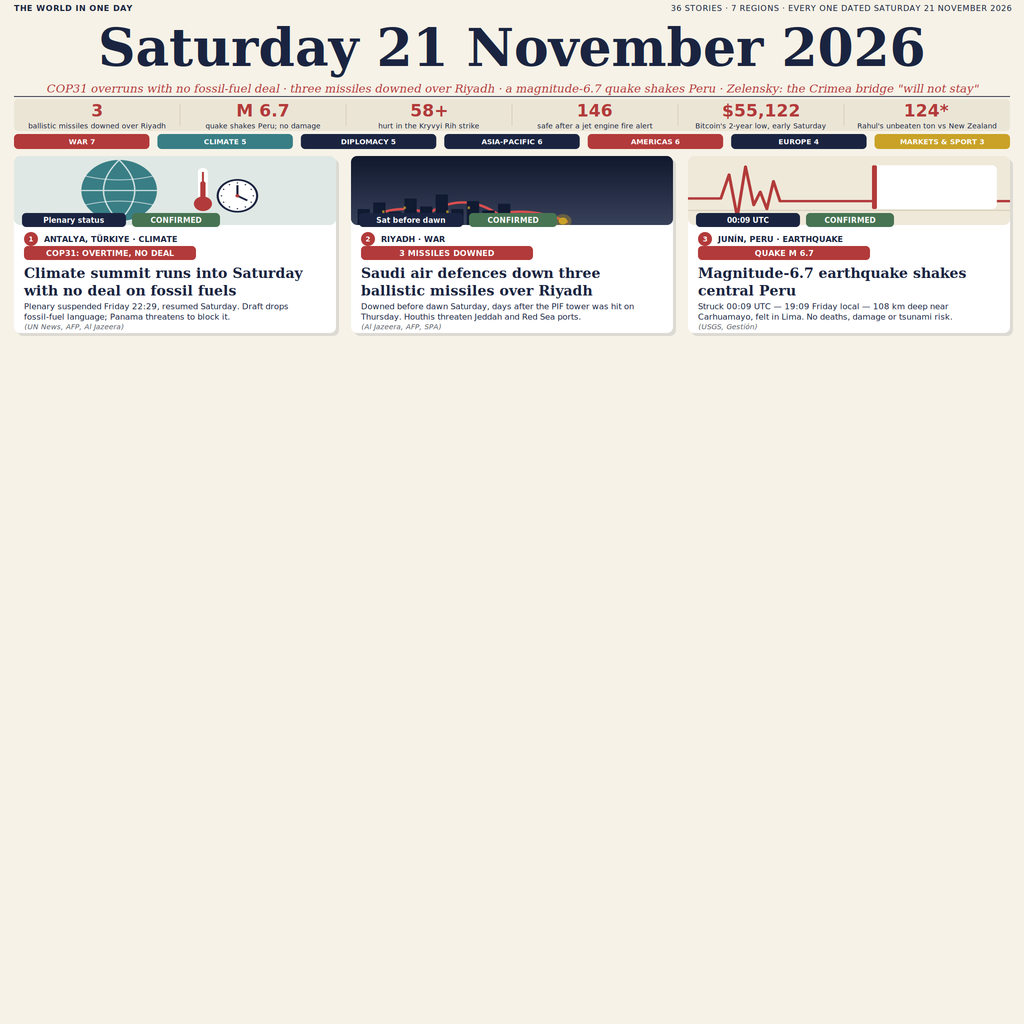
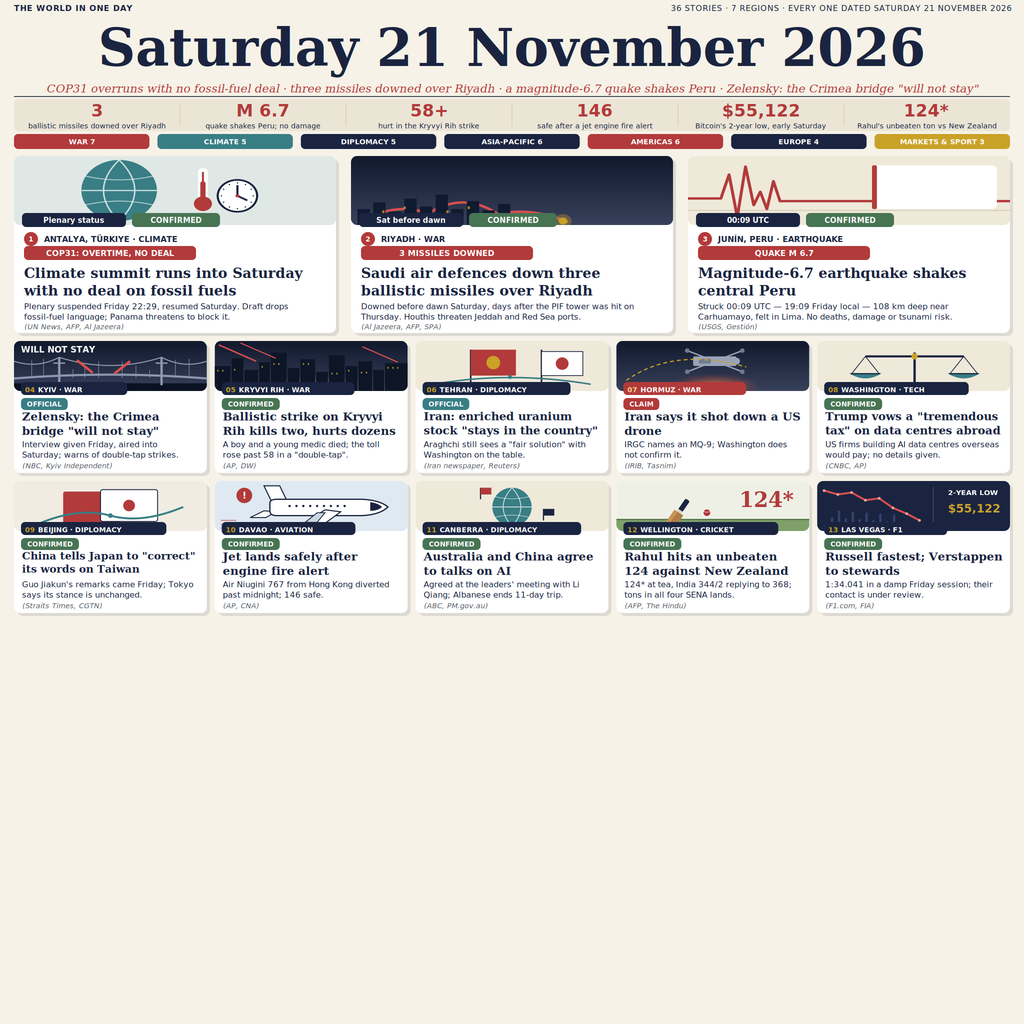
phase 2: ten feature cards with original vector scenes
Five equal columns (x=14..1010, 8px gutters) by two rows at y=341/481,
each 192.8x132 with a 50px scene band, kicker pill, provenance chip,
serif headline, body and sources line.

Scenes: Kyiv skyline, Kerch bridge cut by red slashes, Iran/China flags,
MQ-9 drone over fire glow, scales of justice, overlapping flags, Davao
airliner, Canberra globe, Wellington cricket, Las Vegas chart.

Scene text is registered in page coordinates and emitted after the
scaled group closes, so every label goes through the same measured,
collision-checked block() path as the rest of the page.

Changed region(s): [[0.0, 0.3125, 1.0, 0.5938]]

diff --git a/render.py b/render.py
@@ -1,9 +1,10 @@
 #!/usr/bin/env python3
 """Saturday 21 November 2026 — the day's world news on one deterministic page.
 
-This file is built in PARTS. Phase 1 (this file) implements the layout ENGINE
-and the TOP of the page: masthead, stat band, region pills and three lead cards.
-Later phases append further sections to build() before the single final render.
+This file is built in PARTS. Phase 1 implements the layout ENGINE and the TOP
+of the page: masthead, stat band, region pills and three lead cards. Phase 2
+adds the ten feature cards, each with its own original vector scene. Later
+phases append further sections to build() before the single final render.
 
 Nothing here is random or networked: the same code always produces the same
 bytes. Every string is measured with the very font that draws it, every line
@@ -112,11 +113,73 @@ LEADS = [
     ),
 ]
 
+# Feature cards: number, kicker, provenance, headline, body, sources, scene
+FEATURES = [
+    dict(n='04', kicker='KYIV · WAR', prov='OFFICIAL', scene='bridge',
+         head='Zelensky: the Crimea bridge "will not stay"',
+         body=('Interview given Friday, aired into Saturday; warns of '
+               'double-tap strikes.'),
+         source='NBC, Kyiv Independent'),
+    dict(n='05', kicker='KRYVYI RIH · WAR', prov='CONFIRMED', scene='kyiv',
+         head='Ballistic strike on Kryvyi Rih kills two, hurts dozens',
+         body=('A boy and a young medic died; the toll rose past 58 in a '
+               '"double-tap".'),
+         source='AP, DW'),
+    dict(n='06', kicker='TEHRAN · DIPLOMACY', prov='OFFICIAL', scene='flags',
+         head='Iran: enriched uranium stock "stays in the country"',
+         body=('Araghchi still sees a "fair solution" with Washington on '
+               'the table.'),
+         source='Iran newspaper, Reuters'),
+    dict(n='07', kicker='HORMUZ · WAR', prov='CLAIM', scene='drone',
+         head='Iran says it shot down a US drone',
+         body='IRGC names an MQ-9; Washington does not confirm it.',
+         source='IRIB, Tasnim'),
+    dict(n='08', kicker='WASHINGTON · TECH', prov='CONFIRMED', scene='scales',
+         head='Trump vows a "tremendous tax" on data centres abroad',
+         body=('US firms building AI data centres overseas would pay; no '
+               'details given.'),
+         source='CNBC, AP'),
+    dict(n='09', kicker='BEIJING · DIPLOMACY', prov='CONFIRMED', scene='deal',
+         head='China tells Japan to "correct" its words on Taiwan',
+         body=("Guo Jiakun's remarks came Friday; Tokyo says its stance is "
+               'unchanged.'),
+         source='Straits Times, CGTN'),
+    dict(n='10', kicker='DAVAO · AVIATION', prov='CONFIRMED', scene='jet',
+         head='Jet lands safely after engine fire alert',
+         body=('Air Niugini 767 from Hong Kong diverted past midnight; '
+               '146 safe.'),
+         source='AP, CNA'),
+    dict(n='11', kicker='CANBERRA · DIPLOMACY', prov='CONFIRMED', scene='globe',
+         head='Australia and China agree to talks on AI',
+         body=("Agreed at the leaders' meeting with Li Qiang; Albanese ends "
+               '11-day trip.'),
+         source='ABC, PM.gov.au'),
+    dict(n='12', kicker='WELLINGTON · CRICKET', prov='CONFIRMED', scene='cricket',
+         head='Rahul hits an unbeaten 124 against New Zealand',
+         body=('124* at tea, India 344/2 replying to 368; tons in all four '
+               'SENA lands.'),
+         source='AFP, The Hindu'),
+    dict(n='13', kicker='LAS VEGAS · F1', prov='CONFIRMED', scene='chart',
+         head='Russell fastest; Verstappen to stewards',
+         body=('1:34.041 in a damp Friday session; their contact is under '
+               'review.'),
+         source='F1.com, FIA'),
+]
+
 # Layout anchors ---------------------------------------------------------
 CARD_Y = 156
 CARD_W = 322
 CARD_H = 177
 CARD_XS = (14, 351, 688)
+
+# Feature grid: five equal columns filling x=14..1010 with 8px gutters.
+# (996 - 4*8) / 5 = 192.8; the brief's "182.4" leaves a 52px ragged edge.
+FEAT_W = (1010 - MARGIN - 4 * 8) / 5
+FEAT_H = 132
+FEAT_GAP = 8
+FEAT_XS = tuple(MARGIN + i * (FEAT_W + FEAT_GAP) for i in range(5))
+FEAT_YS = (341, 481)
+FEAT_SCENE_H = 50
 
 # --------------------------------------------------------------------------
 # Engine state
@@ -410,6 +473,218 @@ def scene(kind, x, y, w, h, region):
 
 
 # --------------------------------------------------------------------------
+# Feature scenes. Shapes are drawn in the normalised 196 x 52 canvas, but any
+# *text* is registered in PAGE coordinates and emitted only after the scaled
+# group is closed, so every label is measured and collision-checked exactly
+# like the rest of the page (and lands where the reader sees it).
+# --------------------------------------------------------------------------
+SCENE_LABELS = []
+
+
+def scene_label(s, x, y, w, h, size, **kw):
+    SCENE_LABELS.append((s, x, y, w, h, size, kw))
+
+
+def sc_kyiv(x, y, w, h):
+    """Kyiv at night: skyline, gold windows, fire glow, red streaks."""
+    add(rect(0, 0, SCENE_W, SCENE_H, 'url(#night)'))
+    add('<ellipse cx="104" cy="50" rx="58" ry="16" fill="url(#fire)"/>')
+    for i, (bx, bw, bh) in enumerate((
+            (0, 16, 26), (17, 12, 34), (30, 14, 22), (45, 11, 30),
+            (57, 16, 40), (74, 12, 24), (87, 15, 33), (103, 12, 20),
+            (116, 16, 37), (133, 12, 26), (146, 14, 31), (161, 11, 22),
+            (173, 23, 29))):
+        add(rect(bx, 52 - bh, bw, bh, '#0d1526'))
+        cols = max(1, (bw - 4) // 5)
+        rows = max(1, (bh - 6) // 7)
+        for c in range(int(cols)):
+            for r in range(int(rows)):
+                if (i + c * 3 + r * 5) % 3 == 0:
+                    add(rect(bx + 2.5 + c * 5, 52 - bh + 4 + r * 7,
+                             1.3, 1.8, GOLD, 0, 0.85))
+    add(path('M 4 4 L 42 21', stroke='#d94f4f', sw=1.5))
+    add(path('M 26 2 L 62 18', stroke='#d94f4f', sw=1.1))
+    add(path('M 150 6 L 186 22', stroke='#d94f4f', sw=1.2))
+
+
+def sc_bridge(x, y, w, h):
+    """Kerch bridge at night, cut by red slashes; the label sits in the sky.
+    Everything structural stays below scene y=17 so the label band at the
+    top of the scene is clear ink."""
+    add(rect(0, 0, SCENE_W, SCENE_H, 'url(#night)'))
+    add(rect(0, 44, SCENE_W, 8, '#0a1120'))
+    add(path('M 0 39 Q 98 31 196 39', stroke='#8b98b0', sw=2.2))
+    for tx in (46, 150):
+        add(line(tx, 17, tx, 46, '#8b98b0', 2.4))
+        add(line(tx - 6, 23, tx + 6, 23, '#8b98b0', 1.4))
+    add(path('M 0 21 Q 23 29 46 17 Q 98 34 150 17 Q 173 29 196 21',
+             stroke='#8b98b0', sw=1.1))
+    for hx in (18, 30, 60, 72, 86, 110, 124, 138, 164, 178):
+        top = (21 + (hx / 46) * -4 if hx < 46 else
+               (17 + abs(hx - 98) / 52 * 17 if hx < 150 else
+                17 + (196 - hx) / 46 * 4))
+        add(line(hx, top, hx, 38.4, '#8b98b0', 0.55))
+    add(path('M 64 20 L 80 33', stroke='#d94f4f', sw=2.6))
+    add(path('M 118 21 L 102 34', stroke='#d94f4f', sw=2.6))
+    scene_label('WILL NOT STAY', x + 7, y + 3, 104, 12, 8.5,
+                bold=True, fill=WHITE)
+
+
+def sc_flags(x, y, w, h):
+    """Tehran talks: two flags on poles over a pale ground, teal link curve."""
+    add(rect(0, 0, SCENE_W, SCENE_H, '#efe9da'))
+    add(line(56, 9, 56, 51, NAVY, 1.6))
+    add(line(128, 9, 128, 51, NAVY, 1.6))
+    add(rect(56, 9, 46, 27, RED))
+    add(circle(79, 22.5, 7, GOLD))
+    add(rect(128, 11, 42, 25, WHITE, 0, 1.0, NAVY, 0.8))
+    add(circle(149, 23.5, 6.5, RED))
+    add(path('M 18 45 Q 96 31 178 45', stroke=TEAL, sw=1.6))
+    add(circle(96, 37.5, 2.0, TEAL))
+
+
+def sc_drone(x, y, w, h):
+    """Hormuz: grey drone over a fire glow, gold dashed track."""
+    add(rect(0, 0, SCENE_W, SCENE_H, 'url(#night)'))
+    add('<ellipse cx="100" cy="47" rx="46" ry="13" fill="url(#fire)"/>')
+    for dx, dy in ((-28, -11), (28, -11), (-28, 11), (28, 11)):
+        add(line(100, 21, 100 + dx, 21 + dy, '#9aa4b8', 1.4))
+        add(circle(100 + dx, 21 + dy, 2.3, '#6f7b90'))
+    add(rect(78, 16, 44, 10, '#9aa4b8', 1.6))
+    add(circle(122, 21, 3.6, '#9aa4b8'))
+    add(rect(84, 18.5, 12, 5, '#6f7b90', 1))
+    add(path('M 10 41 Q 58 6 132 27', stroke=GOLD, sw=1.2,
+             extra='stroke-dasharray="4 3"'))
+
+
+def sc_scales(x, y, w, h):
+    """Washington: scales of justice in navy and teal on pale paper."""
+    add(rect(0, 0, SCENE_W, SCENE_H, '#efe9da'))
+    add(rect(84, 44, 30, 3.2, NAVY, 1))
+    add(line(99, 12, 99, 45, NAVY, 2.4))
+    add(line(49, 16, 149, 16, NAVY, 2.2))
+    add(circle(99, 16, 3.2, GOLD))
+    for cx in (49, 149):
+        # Pans hang *below* the beam: apex at the beam, bowl opening upward
+        add(line(cx, 16, cx - 14, 34, NAVY, 0.8))
+        add(line(cx, 16, cx + 14, 34, NAVY, 0.8))
+        add(path(f'M {cx - 15} 34 Q {cx} 43 {cx + 15} 34 Z',
+                 fill=TEAL, stroke=TEAL, sw=0.8))
+        add(line(cx - 15, 34, cx + 15, 34, NAVY, 1.2))
+
+
+def sc_deal(x, y, w, h):
+    """Beijing: two overlapping flags, red and white, joined by a teal curve."""
+    add(rect(0, 0, SCENE_W, SCENE_H, '#f0ece2'))
+    add(rect(50, 11, 58, 33, RED, 2))
+    add(rect(88, 9, 58, 33, WHITE, 2, 1.0, NAVY, 0.9))
+    add(circle(117, 25.5, 6, RED))
+    add(path('M 26 44 Q 66 27 98 36 Q 130 45 172 27', stroke=TEAL, sw=2.0))
+    add(circle(98, 36, 2.4, TEAL))
+
+
+def sc_jet(x, y, w, h):
+    """Davao: airliner side view in a pale sky, red alert disc at the tail."""
+    add(rect(0, 0, SCENE_W, SCENE_H, '#dfe9f2'))
+    # Motion streaks trailing behind the tail
+    for yy, ln in ((41, 16), (45, 11), (49, 7)):
+        add(line(6, yy, 6 + ln, yy, '#c05050', 1.2, 'opacity=".6"'))
+    # Tail fin, then the fuselage over it, nose to the right
+    add(f'<path d="M 58 22 L 50 5 L 66 5 L 74 22 Z" fill="{WHITE}" '
+        f'stroke="{NAVY}" stroke-width="1.1"/>')
+    add(f'<path d="M 50 31 L 36 38 L 52 38 L 62 32 Z" fill="{WHITE}" '
+        f'stroke="{NAVY}" stroke-width="1.0"/>')
+    add(f'<path d="M 56 23 Q 56 19 63 19 L 150 19 Q 168 20 176 27 '
+        f'Q 168 35 150 36 L 63 36 Q 56 36 56 31 Z" fill="{WHITE}" '
+        f'stroke="{NAVY}" stroke-width="1.3"/>')
+    # Swept wing down and back, with an engine pod beneath it
+    add(f'<path d="M 112 30 L 86 47 L 108 47 L 128 32 Z" fill="{WHITE}" '
+        f'stroke="{NAVY}" stroke-width="1.1"/>')
+    add(f'<path d="M 104 33 L 92 43 L 104 43 L 112 33 Z" fill="#c9d6e2" '
+        f'stroke="{NAVY}" stroke-width="0.9"/>')
+    # Cabin windows and cockpit
+    for i in range(9):
+        add(circle(76 + i * 7, 26, 1.2, NAVY))
+    add(f'<path d="M 158 22 Q 166 23 170 27 Q 166 31 158 31 Z" '
+        f'fill="{NAVY}"/>')
+    sx, sy = w / SCENE_W, h / SCENE_H
+    add(circle(30, 15, 8, RED))
+    scene_label('!', x + 30 * sx - 6.5, y + 15 * sy - 6.2, 13, 12.5, 9.5,
+                bold=True, fill=WHITE, center=True)
+
+
+def sc_globe(x, y, w, h):
+    """Canberra: teal globe with white meridians and two small flag pins."""
+    add(rect(0, 0, SCENE_W, SCENE_H, '#efe9da'))
+    add(circle(98, 27, 20, TEAL))
+    add(path('M 78 27 H 118 M 98 7 Q 80 27 98 47 M 98 7 Q 116 27 98 47',
+             stroke=WHITE, sw=0.9, extra='opacity=".75"'))
+    add(path('M 80 16 Q 98 21 116 16 M 80 38 Q 98 33 116 38',
+             stroke=WHITE, sw=0.7, extra='opacity=".6"'))
+    for px_, py_, col in ((66, 7, RED), (130, 29, NAVY)):
+        add(line(px_, py_, px_, py_ + 12, NAVY, 1.2))
+        add(rect(px_, py_, 11, 7, col))
+
+
+def sc_cricket(x, y, w, h):
+    """Wellington: bat, ball and the big red not-out score."""
+    add(rect(0, 0, SCENE_W, SCENE_H, '#eef0e6'))
+    add(rect(0, 40, SCENE_W, 12, '#7fa06a'))
+    add(line(0, 40, SCENE_W, 40, '#4f7040', 1.2))
+    # Bat leaning up and to the right: navy grip at the top, willow blade below
+    add(f'<g transform="translate(54 47) rotate(34)">'
+        f'<rect x="-2.6" y="-33" width="5.2" height="14" fill="{NAVY}" rx="1.2"/>'
+        f'<rect x="-2.6" y="-20" width="5.2" height="3" fill="#d9d4c8"/>'
+        f'<path d="M -5.4 -17 H 5.4 V 0 Q 5.4 4 0 4 Q -5.4 4 -5.4 0 Z" '
+        f'fill="#b07c47"/>'
+        f'<path d="M -5.4 -17 H -1.6 V 0 Q -1.6 4 -5.4 0 Z" fill="#c99259"/>'
+        f'</g>')
+    add(circle(92, 33, 3.8, RED))
+    add(circle(92, 33, 3.8, RED, stroke=WHITE, sw=0.6))
+    add(path('M 88.6 31.6 Q 92 33.4 95.4 31.6', stroke='#f0c9c9', sw=0.6))
+    scene_label('124*', x + w - 70, y + 5, 64, 27, 21,
+                bold=True, serif=True, fill=RED)
+
+
+def sc_chart(x, y, w, h):
+    """Las Vegas: red slide on navy, with the low and the price called out.
+    The line and bars stay left of x=120 scene units so the label column on
+    the right is clear ink, not text laid over the plot."""
+    add(rect(0, 0, SCENE_W, SCENE_H, NAVY))
+    for i in range(12):
+        bh = 6 + (i * 7) % 15
+        add(rect(7 + i * 7.0, 51 - bh, 2.4, bh, '#33436d'))
+    pts = ((7, 10), (21, 14), (35, 12), (49, 20), (63, 18),
+           (77, 28), (91, 34), (104, 41))
+    add(path('M ' + ' L '.join(f'{a} {b}' for a, b in pts),
+             stroke='#d94f4f', sw=2.0))
+    for a, b in pts:
+        add(circle(a, b, 1.4, '#e8a5a5'))
+    add(line(118, 6, 118, 46, '#3d4d78', 0.8))
+    scene_label('2-YEAR LOW', x + w - 62, y + 7, 56, 10, 7.2,
+                bold=True, fill=WHITE)
+    scene_label('$55,122', x + w - 62, y + 20, 56, 16, 11.5,
+                bold=True, fill=GOLD)
+
+
+FEATURE_SCENES = {
+    'kyiv': sc_kyiv, 'bridge': sc_bridge, 'flags': sc_flags, 'drone': sc_drone,
+    'scales': sc_scales, 'deal': sc_deal, 'jet': sc_jet, 'globe': sc_globe,
+    'cricket': sc_cricket, 'chart': sc_chart,
+}
+
+
+def feature_scene(kind, x, y, w, h, region):
+    SCENE_LABELS.clear()
+    scene_open(x, y, w, h)
+    FEATURE_SCENES[kind](x, y, w, h)
+    scene_close()
+    for s, lx, ly, lw, lh, size, kw in SCENE_LABELS:
+        block(s, lx, ly, lw, lh, size, region=region, **kw)
+    SCENE_LABELS.clear()
+
+
+# --------------------------------------------------------------------------
 # Sections (each appends its own fragments to PARTS)
 # --------------------------------------------------------------------------
 def masthead():
@@ -477,6 +752,50 @@ def lead_cards():
               CARD_W - 20, 9.5, 7.2, italic=True, fill=MUTED, region=r)
 
 
+def feature_cards():
+    """Ten feature cards, five across and two down, filling y=341..613.
+
+    The section is clipped to y >= 341 so that the 2x render's resampling
+    halo on the top card edge cannot bleed into the finished sections above.
+    """
+    add('<clipPath id="clip-features"><rect x="0" y="341" width="1024" '
+        'height="683"/></clipPath>')
+    add('<g clip-path="url(#clip-features)">')
+    for i, feat in enumerate(FEATURES):
+        x = FEAT_XS[i % 5]
+        y = FEAT_YS[i // 5]
+        r = f'feat-{feat["n"]}'
+        card(x, y, FEAT_W, FEAT_H)
+        # Scene band, clipped to the card's rounded top corners
+        add(f'<clipPath id="clip-{r}"><rect x="{x:g}" y="{y:g}" '
+            f'width="{FEAT_W:g}" height="{FEAT_SCENE_H}" rx="6"/></clipPath>')
+        add(f'<g clip-path="url(#clip-{r})">')
+        feature_scene(feat['scene'], x, y, FEAT_W, FEAT_SCENE_H, r)
+        add('</g>')
+        # Kicker pill straddling the scene seam: number, then the label.
+        # A CLAIM is called out in red, with a paler numeral for contrast.
+        kick_w = 62 + measure(feat['kicker'], 7, True)
+        px, py = x + 7, y + FEAT_SCENE_H - 9
+        claimed = feat['prov'] == 'CLAIM'
+        add(rect(px, py, kick_w, 13, RED if claimed else NAVY, 4))
+        block(feat['n'], px + 4, py + 3.2, 13, 9, 7, bold=True,
+              fill='#f2d98c' if claimed else GOLD, region=r)
+        block(feat['kicker'], px + 17, py + 3.2, kick_w - 21, 9, 7,
+              bold=True, fill=WHITE, region=r)
+        # Provenance chip under the kicker
+        prov_w = 12 + measure(feat['prov'], 6.8, True)
+        pill(feat['prov'], x + 7, py + 16, prov_w, 12,
+             PROV_COLORS[feat['prov']], 6.8, r)
+        # Headline, body, sources
+        block(feat['head'], x + 8, y + 68, FEAT_W - 16, 30, 11.5,
+              minimum=9.5, bold=True, serif=True, lines=2, region=r)
+        block(feat['body'], x + 8, y + 98, FEAT_W - 16, 21, 8.5,
+              minimum=7.5, lines=2, region=r)
+        block('(' + feat['source'] + ')', x + 8, y + 120,
+              FEAT_W - 16, 9.5, 7.2, italic=True, fill=MUTED, region=r)
+    add('</g>')
+
+
 def build():
     """Assemble the whole page. Later phases append sections before the
     closing tag; the order of calls is the order of the page."""
@@ -501,6 +820,7 @@ def build():
     lead_cards()
 
     # --- later phases insert more sections here ---
+    feature_cards()
 
     add('</g></svg>')
     verify()
